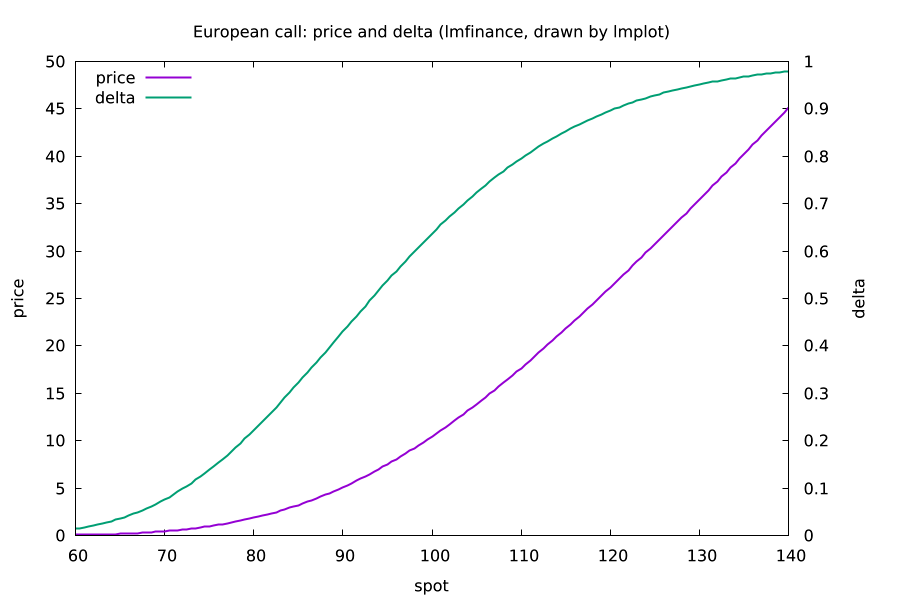
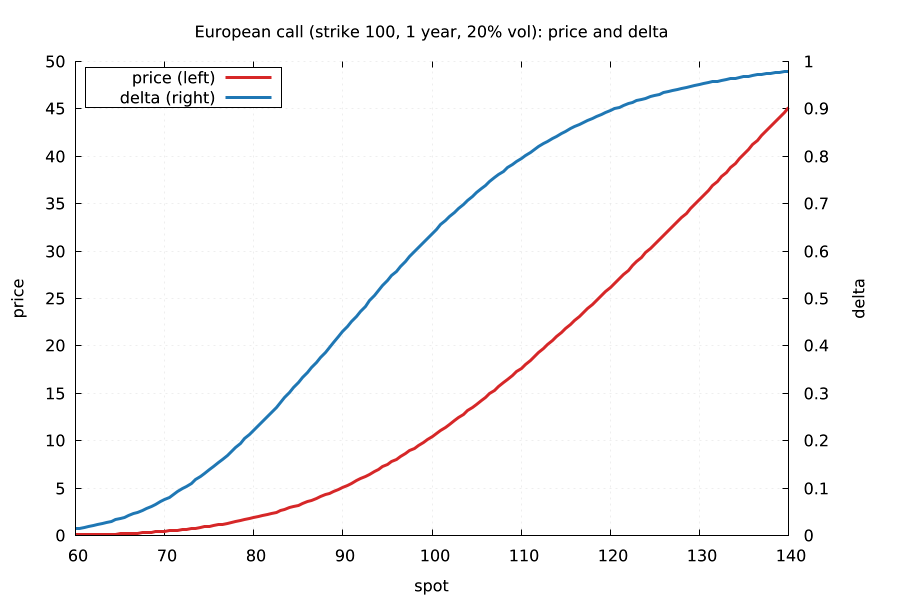
Gallery of 15 pictures grouped by theme; option strategies, gamma map, vol surface, duration balance diagram, DV01 ladders; cleaner default colours

diff --git a/README.md b/README.md
@@ -2,22 +2,58 @@
 
 **QuantLib for lmscript: yield curves, bonds, swaps, options, Greeks, risk and calibration in one static executable.**
 
-| | | |
-| :---: | :---: | :---: |
-| <img src="docs/images/option_decay.gif" width="300"><br>Call value melting onto its payoff, animated<br><sub><code>lmctl autorun https://raw.githubusercontent.com/lmctl-ai/lmfinance/main/examples/gallery/option_decay.lms</code></sub> | <img src="docs/images/yield_curve.png" width="300"><br>Bootstrapped yield curve: zero and forward rates<br><sub><code>lmctl autorun https://raw.githubusercontent.com/lmctl-ai/lmfinance/main/examples/gallery/yield_curve.lms</code></sub> | <img src="docs/images/option_greeks.png" width="300"><br>Call price and delta against spot<br><sub><code>lmctl autorun https://raw.githubusercontent.com/lmctl-ai/lmfinance/main/examples/gallery/option_greeks.lms</code></sub> |
-| <img src="docs/images/american_put.png" width="300"><br>American vs European put: early-exercise premium<br><sub><code>lmctl autorun https://raw.githubusercontent.com/lmctl-ai/lmfinance/main/examples/gallery/american_put.lms</code></sub> | <img src="docs/images/bond_convexity.png" width="300"><br>Bond price against yield with the duration tangent<br><sub><code>lmctl autorun https://raw.githubusercontent.com/lmctl-ai/lmfinance/main/examples/gallery/bond_convexity.lms</code></sub> | <img src="docs/images/rate_scenarios.png" width="300"><br>Bond and swap P/L under parallel curve shifts<br><sub><code>lmctl autorun https://raw.githubusercontent.com/lmctl-ai/lmfinance/main/examples/gallery/rate_scenarios.lms</code></sub> |
-| <img src="docs/images/vol_smile.png" width="300"><br>Heston implied-volatility smile for three correlations<br><sub><code>lmctl autorun https://raw.githubusercontent.com/lmctl-ai/lmfinance/main/examples/gallery/vol_smile.lms</code></sub> | <img src="docs/images/engine_convergence.png" width="300"><br>Tree, finite-difference and Monte Carlo error<br><sub><code>lmctl autorun https://raw.githubusercontent.com/lmctl-ai/lmfinance/main/examples/gallery/engine_convergence.lms</code></sub> | <img src="docs/images/mc_convergence.png" width="300"><br>Seeded Monte Carlo inside its error bars<br><sub><code>lmctl autorun https://raw.githubusercontent.com/lmctl-ai/lmfinance/main/examples/gallery/mc_convergence.lms</code></sub> |
-| <img src="docs/images/var_tail.png" width="300"><br>99% VaR and expected shortfall of a position<br><sub><code>lmctl autorun https://raw.githubusercontent.com/lmctl-ai/lmfinance/main/examples/gallery/var_tail.lms</code></sub> |  |  |
+[![CI](https://github.com/lmctl-ai/lmfinance/actions/workflows/ci.yml/badge.svg)](https://github.com/lmctl-ai/lmfinance/actions/workflows/ci.yml)
+[![License: MIT](https://img.shields.io/badge/license-MIT-blue.svg)](LICENSE)
 
-Each command runs the example from any empty directory: lmfinance computes, [lmplot](https://github.com/lmctl-ai/lmplot) draws, and the
-picture lands in `images/`. `examples/render-all.sh` regenerates `docs/images/` from a checkout.
+### Options
+
+| ![option_decay](docs/images/option_decay.gif) | ![option_greeks](docs/images/option_greeks.png) |
+| --- | --- |
+| A call melting onto its payoff as expiry nears (needs ffmpeg).<br>`lmctl autorun https://raw.githubusercontent.com/lmctl-ai/lmfinance/main/examples/gallery/option_decay.lms` | Call price and delta against the spot.<br>`lmctl autorun https://raw.githubusercontent.com/lmctl-ai/lmfinance/main/examples/gallery/option_greeks.lms` |
+
+| ![option_strategies](docs/images/option_strategies.png) | ![american_put](docs/images/american_put.png) |
+| --- | --- |
+| Straddle, bull spread, butterfly: value today against the payoff.<br>`lmctl autorun https://raw.githubusercontent.com/lmctl-ai/lmfinance/main/examples/gallery/option_strategies.lms` | American against European put: the early-exercise premium.<br>`lmctl autorun https://raw.githubusercontent.com/lmctl-ai/lmfinance/main/examples/gallery/american_put.lms` |
+
+| ![gamma_heatmap](docs/images/gamma_heatmap.png) | ![vol_smile](docs/images/vol_smile.png) |
+| --- | --- |
+| Gamma: the at-the-money spike that sharpens toward expiry.<br>`lmctl autorun https://raw.githubusercontent.com/lmctl-ai/lmfinance/main/examples/gallery/gamma_heatmap.lms` | Heston implied-volatility smile for three correlations.<br>`lmctl autorun https://raw.githubusercontent.com/lmctl-ai/lmfinance/main/examples/gallery/vol_smile.lms` |
+
+| ![vol_surface](docs/images/vol_surface.png) | |
+| --- | --- |
+| Heston implied-volatility surface: skew and term structure.<br>`lmctl autorun https://raw.githubusercontent.com/lmctl-ai/lmfinance/main/examples/gallery/vol_surface.lms` | |
+
+### Rates and bonds
+
+| ![yield_curve](docs/images/yield_curve.png) | ![bond_convexity](docs/images/bond_convexity.png) |
+| --- | --- |
+| A bootstrapped curve: zero and forward rates.<br>`lmctl autorun https://raw.githubusercontent.com/lmctl-ai/lmfinance/main/examples/gallery/yield_curve.lms` | Bond price against yield, with the duration tangent.<br>`lmctl autorun https://raw.githubusercontent.com/lmctl-ai/lmfinance/main/examples/gallery/bond_convexity.lms` |
+
+| ![bond_balance](docs/images/bond_balance.png) | ![rate_scenarios](docs/images/rate_scenarios.png) |
+| --- | --- |
+| Duration is the balance point of the discounted cash flows (lmdraw).<br>`lmctl autorun https://raw.githubusercontent.com/lmctl-ai/lmfinance/main/examples/gallery/bond_balance.lms` | Bond and swap P/L under parallel curve shifts.<br>`lmctl autorun https://raw.githubusercontent.com/lmctl-ai/lmfinance/main/examples/gallery/rate_scenarios.lms` |
+
+| ![dv01_ladder](docs/images/dv01_ladder.png) | |
+| --- | --- |
+| Where the rate risk sits: DV01 of zero bonds and swaps.<br>`lmctl autorun https://raw.githubusercontent.com/lmctl-ai/lmfinance/main/examples/gallery/dv01_ladder.lms` | |
+
+### Numerics and risk
+
+| ![engine_convergence](docs/images/engine_convergence.png) | ![mc_convergence](docs/images/mc_convergence.png) |
+| --- | --- |
+| Tree, finite-difference and Monte Carlo errors against the closed form.<br>`lmctl autorun https://raw.githubusercontent.com/lmctl-ai/lmfinance/main/examples/gallery/engine_convergence.lms` | Seeded Monte Carlo inside its error bars.<br>`lmctl autorun https://raw.githubusercontent.com/lmctl-ai/lmfinance/main/examples/gallery/mc_convergence.lms` |
+
+| ![var_tail](docs/images/var_tail.png) | |
+| --- | --- |
+| 99% VaR and expected shortfall of a position.<br>`lmctl autorun https://raw.githubusercontent.com/lmctl-ai/lmfinance/main/examples/gallery/var_tail.lms` | |
+
+Each command runs the example from any empty directory: lmfinance computes, [lmplot](https://github.com/lmctl-ai/lmplot) or [lmdraw](https://github.com/lmctl-ai/lmdraw) draws, and the picture lands in `images/`. `examples/render-all.sh` regenerates `docs/images/` from a checkout.
+
+**Quick start:** `npm i -g @lmctl-ai/lmctl`, then paste any `lmctl autorun` line above.
 
 It is a scripting host,
 not a command-line tool: write an [lmscript](https://lmctl.com/tools/lmscript/skill.html) `_dsl_`
 block, compile it, run it with `lmfinance --dsl`. No Python, no Boost libraries, no shared libraries.
-
-[![CI](https://github.com/lmctl-ai/lmfinance/actions/workflows/ci.yml/badge.svg)](https://github.com/lmctl-ai/lmfinance/actions/workflows/ci.yml)
-[![License: MIT](https://img.shields.io/badge/license-MIT-blue.svg)](LICENSE)
 
 ```
 # bs.lms: Black-Scholes call S=100 K=100 r=5% vol=20% T=1 is worth 10.4506
@@ -75,6 +111,11 @@ Combine it with other hosts in one script: [examples/gallery/](examples/gallery)
 | [gallery/vol_smile.lms](examples/gallery/vol_smile.lms) | Heston implied-volatility smile for three correlations | `lmctl autorun https://raw.githubusercontent.com/lmctl-ai/lmfinance/main/examples/gallery/vol_smile.lms` |
 | [gallery/engine_convergence.lms](examples/gallery/engine_convergence.lms) | Tree, finite-difference and Monte Carlo error | `lmctl autorun https://raw.githubusercontent.com/lmctl-ai/lmfinance/main/examples/gallery/engine_convergence.lms` |
 | [gallery/mc_convergence.lms](examples/gallery/mc_convergence.lms) | Seeded Monte Carlo inside its error bars | `lmctl autorun https://raw.githubusercontent.com/lmctl-ai/lmfinance/main/examples/gallery/mc_convergence.lms` |
+| [gallery/option_strategies.lms](examples/gallery/option_strategies.lms) | Straddle, bull spread and butterfly: value today against payoff; put-call parity asserted | `lmctl autorun https://raw.githubusercontent.com/lmctl-ai/lmfinance/main/examples/gallery/option_strategies.lms` |
+| [gallery/gamma_heatmap.lms](examples/gallery/gamma_heatmap.lms) | Gamma over spot and time to expiry, checked against the Black-Scholes formula | `lmctl autorun https://raw.githubusercontent.com/lmctl-ai/lmfinance/main/examples/gallery/gamma_heatmap.lms` |
+| [gallery/vol_surface.lms](examples/gallery/vol_surface.lms) | Heston implied-volatility surface: skew and term structure | `lmctl autorun https://raw.githubusercontent.com/lmctl-ai/lmfinance/main/examples/gallery/vol_surface.lms` |
+| [gallery/bond_balance.lms](examples/gallery/bond_balance.lms) | Duration as the balance point of discounted cash flows (lmdraw) | `lmctl autorun https://raw.githubusercontent.com/lmctl-ai/lmfinance/main/examples/gallery/bond_balance.lms` |
+| [gallery/dv01_ladder.lms](examples/gallery/dv01_ladder.lms) | DV01 of zero bonds and swaps against P T and the annuity | `lmctl autorun https://raw.githubusercontent.com/lmctl-ai/lmfinance/main/examples/gallery/dv01_ladder.lms` |
 | [gallery/var_tail.lms](examples/gallery/var_tail.lms) | 99% VaR and expected shortfall of a position | `lmctl autorun https://raw.githubusercontent.com/lmctl-ai/lmfinance/main/examples/gallery/var_tail.lms` |
 
 `tests/` holds the checks against textbook values (Black-Scholes 10.4506 and 5.5735, Hull's

diff --git a/durable-memory/07-examples.md b/durable-memory/07-examples.md
@@ -11,7 +11,7 @@
 
 ## Gallery (pictures) and `lmctl autorun`
 
-`examples/gallery/*.lms` (10 programs) compute with lmfinance, write CSV/text into `data/` and draw with lmplot into `images/` in the
+`examples/gallery/*.lms` (15 programs) compute with lmfinance, write CSV/text into `data/` and draw with lmplot into `images/` in the
 *current directory*; the README shows copies in `docs/images/` (`examples/render-all.sh` runs them from a checkout and copies;
 PNG <= 300 KB, GIF <= 3 MB). All examples, old and new, end with `r = system ${dsl_cli(p)} --dsl ${out}; assert(r.code == 0);` so
 `lmctl autorun <raw github url>` produces output; README captions are those commands. Old examples `mkdir("build/examples")` first.
@@ -22,3 +22,11 @@ PNG <= 300 KB, GIF <= 3 MB). All examples, old and new, end with `r = system ${d
   `system('head -1 file')`, `set format x '10^{%L}'` on log axes; the DSL has no exponent literals and `lmf` has `check`, not `assert_true`;
   `pricing.monte_carlo` takes at most 1e8 paths.
 - `test.sh` checks README images (magic bytes, sizes, autorun captions) and runs the gallery when lmplot is available (GIF needs ffmpeg).
+- Added in the QA pass: `option_strategies` (straddle/bull spread/butterfly against payoffs; parity C - P = S - K e^(-rT) holds
+  only to a cent because QuantLib rounds maturities to whole days), `gamma_heatmap` (analytic gamma vs N'(d1)/(S sigma sqrt T)),
+  `vol_surface` (Heston prices inverted with `calibration.implied_vol` over 17 strikes x 12 maturities; skew and rising term
+  structure asserted), `bond_balance` (lmdraw: PV bars sum to `pricing.bond_npv` within 10 cents, fulcrum = Macaulay duration),
+  `dv01_ladder` (zero-bond DV01 = P T 1bp within 0.5 %, swap DV01 = annuity x 1bp within 5 %).
+- Pipeline notes: grids go to a file with blank lines between rows for `pm3d map`; lmscript reads CSV with `csv_parse(read_file(..))`
+  (write a header line from the DSL with `lmf.save_text`); lmdraw writes only under `build/rendered/` (copy_file to `images/`) and
+  its `end _dsl_` must be at column 1; `${x}` of an integral number is an int literal (add + 0.0001 for floats).
